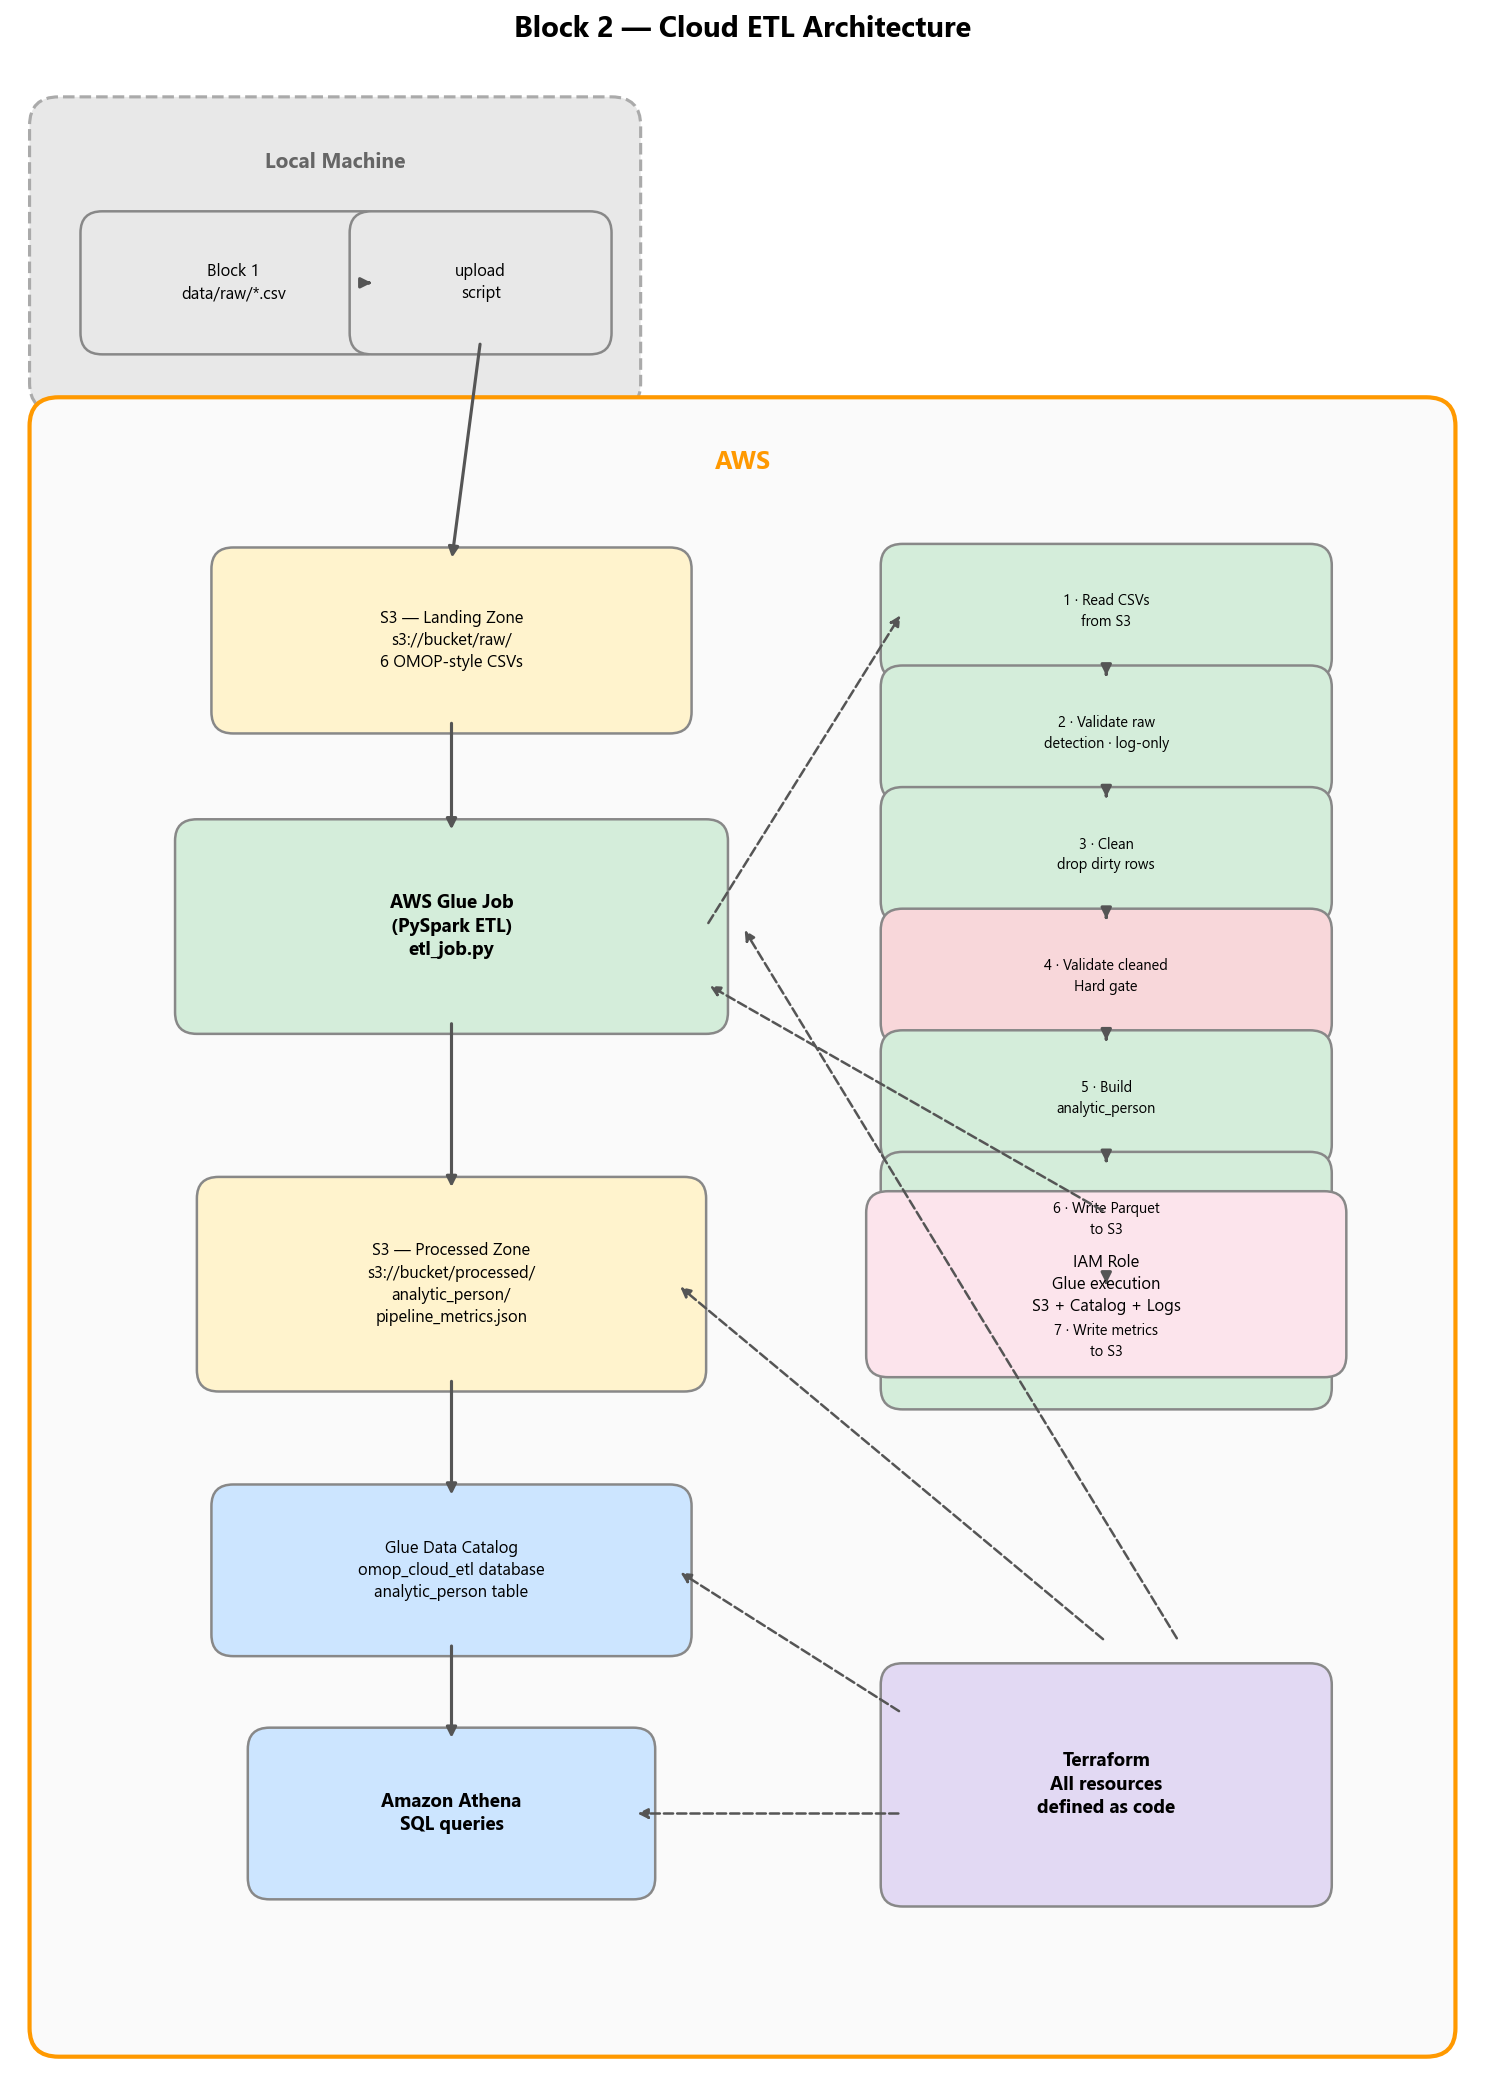
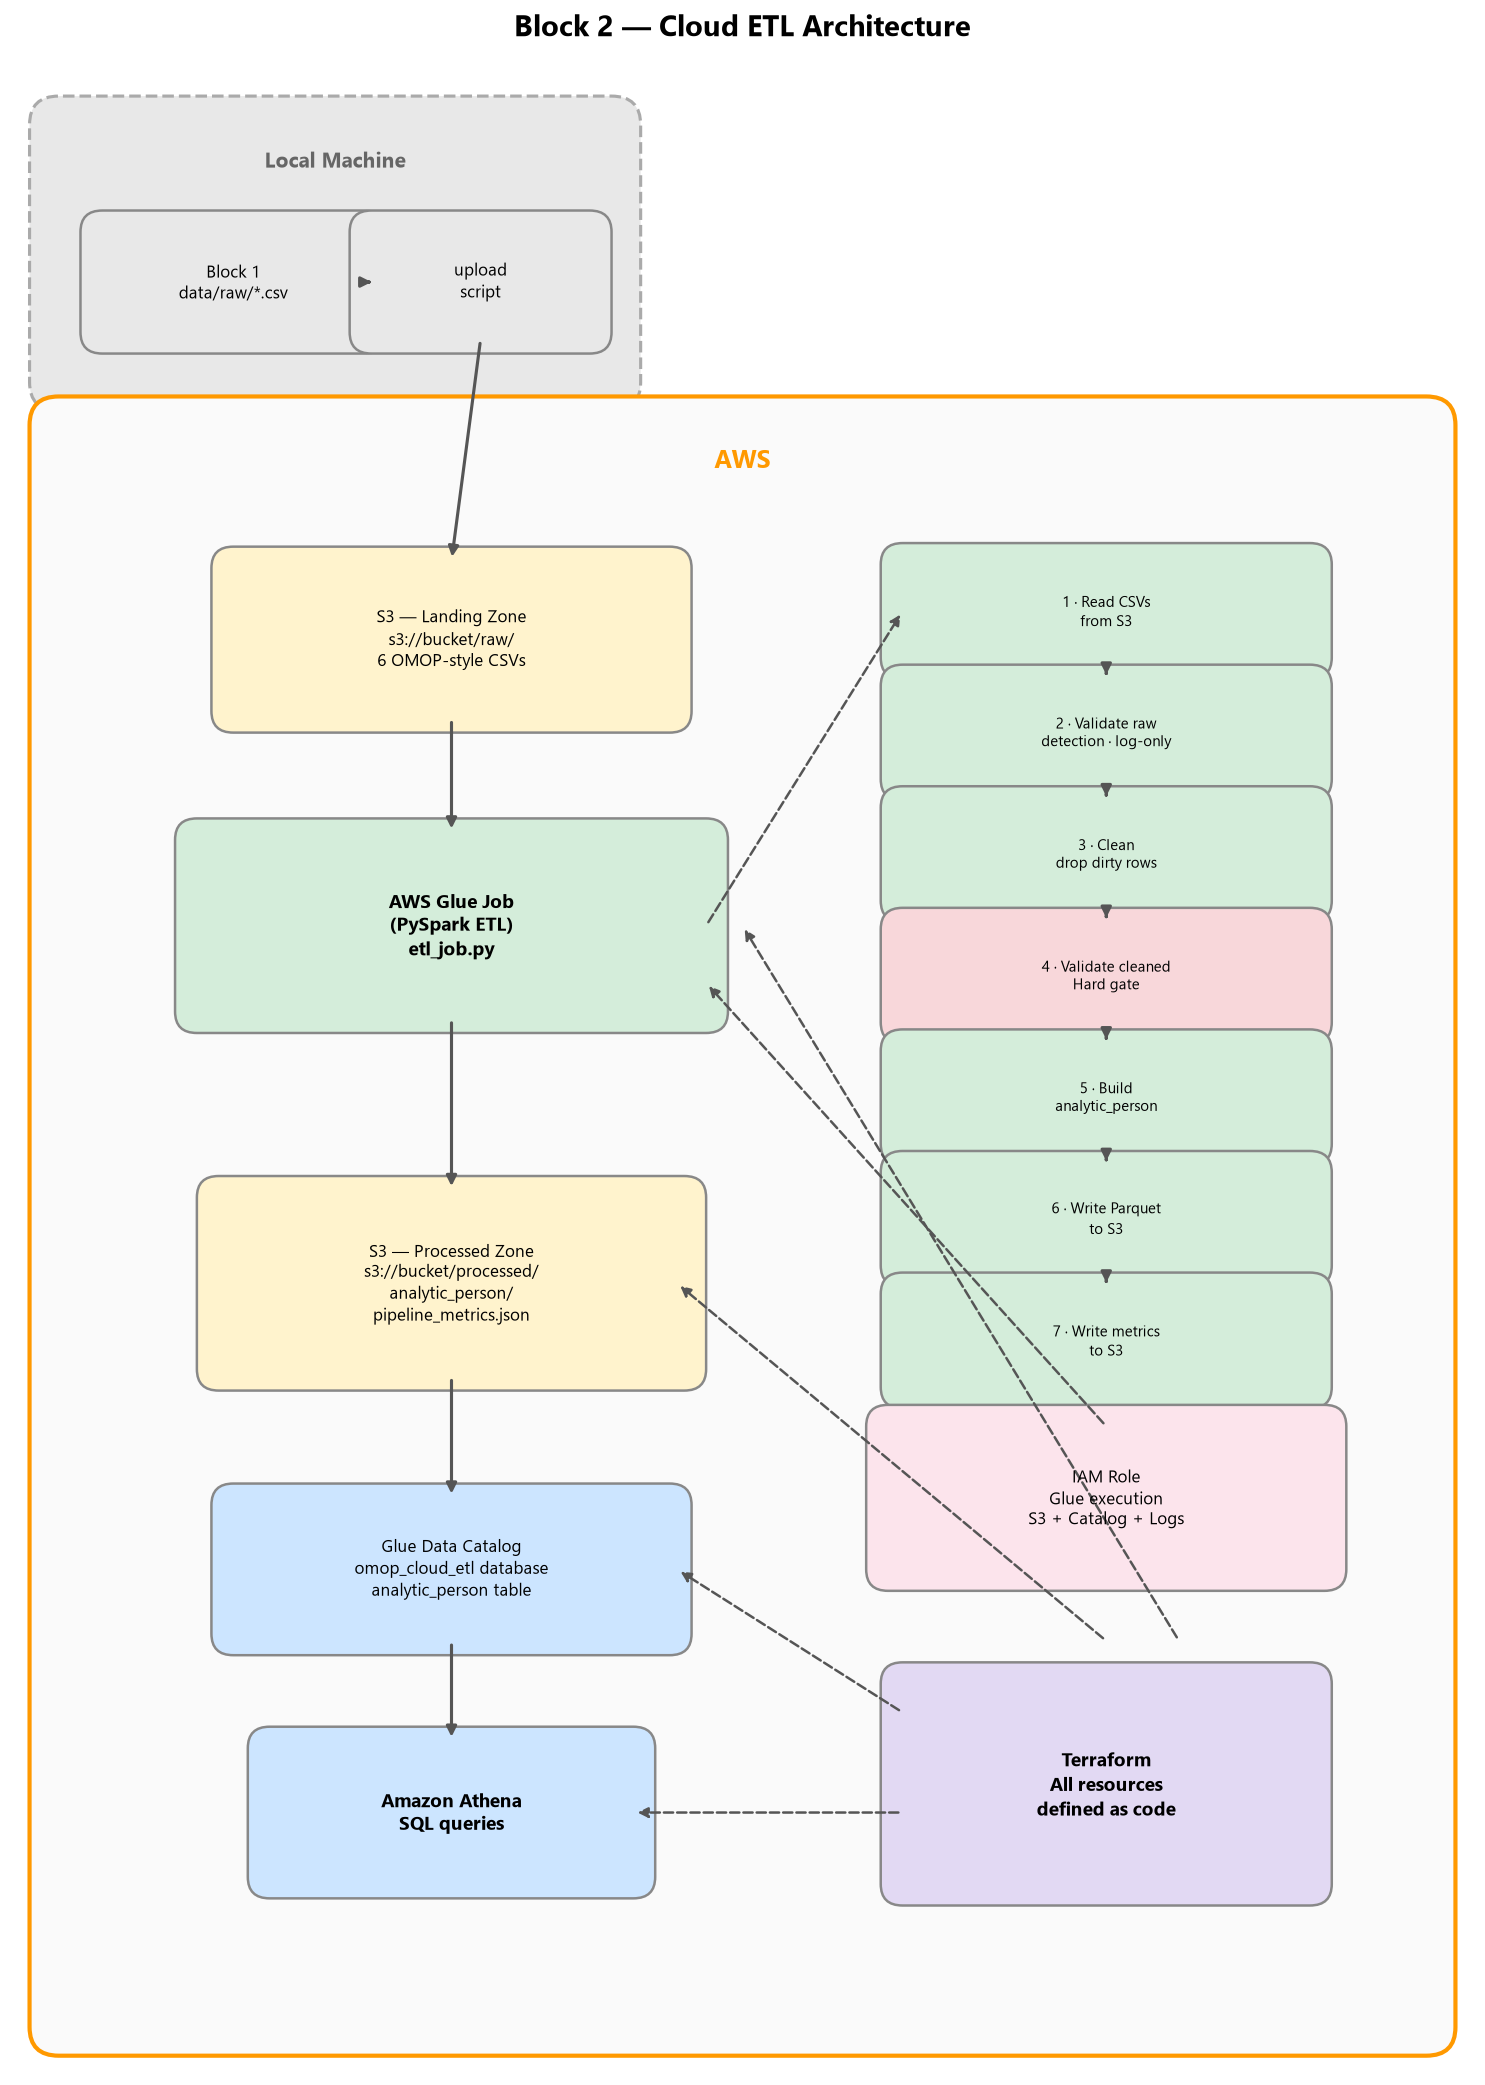
Fix IAM Role box overlapping stage list in architecture.png; regenerate diagrams
generate_diagrams.py's terraform_resources() label for s3.tf still said
'Versioning' after s3.tf dropped versioning for a lifecycle policy
(commit 1b09e57 fixed the source text but never regenerated the PNG).
Also moved the IAM Role box in draw_architecture() below the 7-stage
list -- it previously sat at y=5.5, overlapping stages 6 and 7's boxes
with unreadable overlapping text. All 4 PNGs regenerated; only
terraform_resources.png and architecture.png have real content changes,
the other two are pixel-identical content re-rendered with a newer
matplotlib.

diff --git a/docs/generate_diagrams.py b/docs/generate_diagrams.py
@@ -154,12 +154,13 @@ def draw_architecture():
     _dashed_arrow(ax, 7.5, 3.0, 4.55, 5.5)
     _dashed_arrow(ax, 8.0, 3.0, 5.0, 8.0)
 
-    # IAM role
-    _box(ax, 7.5, 5.5, 3.0, 1.0,
+    # IAM role (placed below the stage list, which bottoms out at y=4.775,
+    # to avoid overlapping stage 6/7's boxes)
+    _box(ax, 7.5, 4.0, 3.0, 1.0,
          "IAM Role\nGlue execution\nS3 + Catalog + Logs",
          COLORS["iam"], fontsize=8)
 
-    _dashed_arrow(ax, 7.5, 6.0, 4.75, 7.6)
+    _dashed_arrow(ax, 7.5, 4.5, 4.75, 7.6)
 
     plt.tight_layout()
     plt.savefig("docs/architecture.png", dpi=150, bbox_inches="tight",
